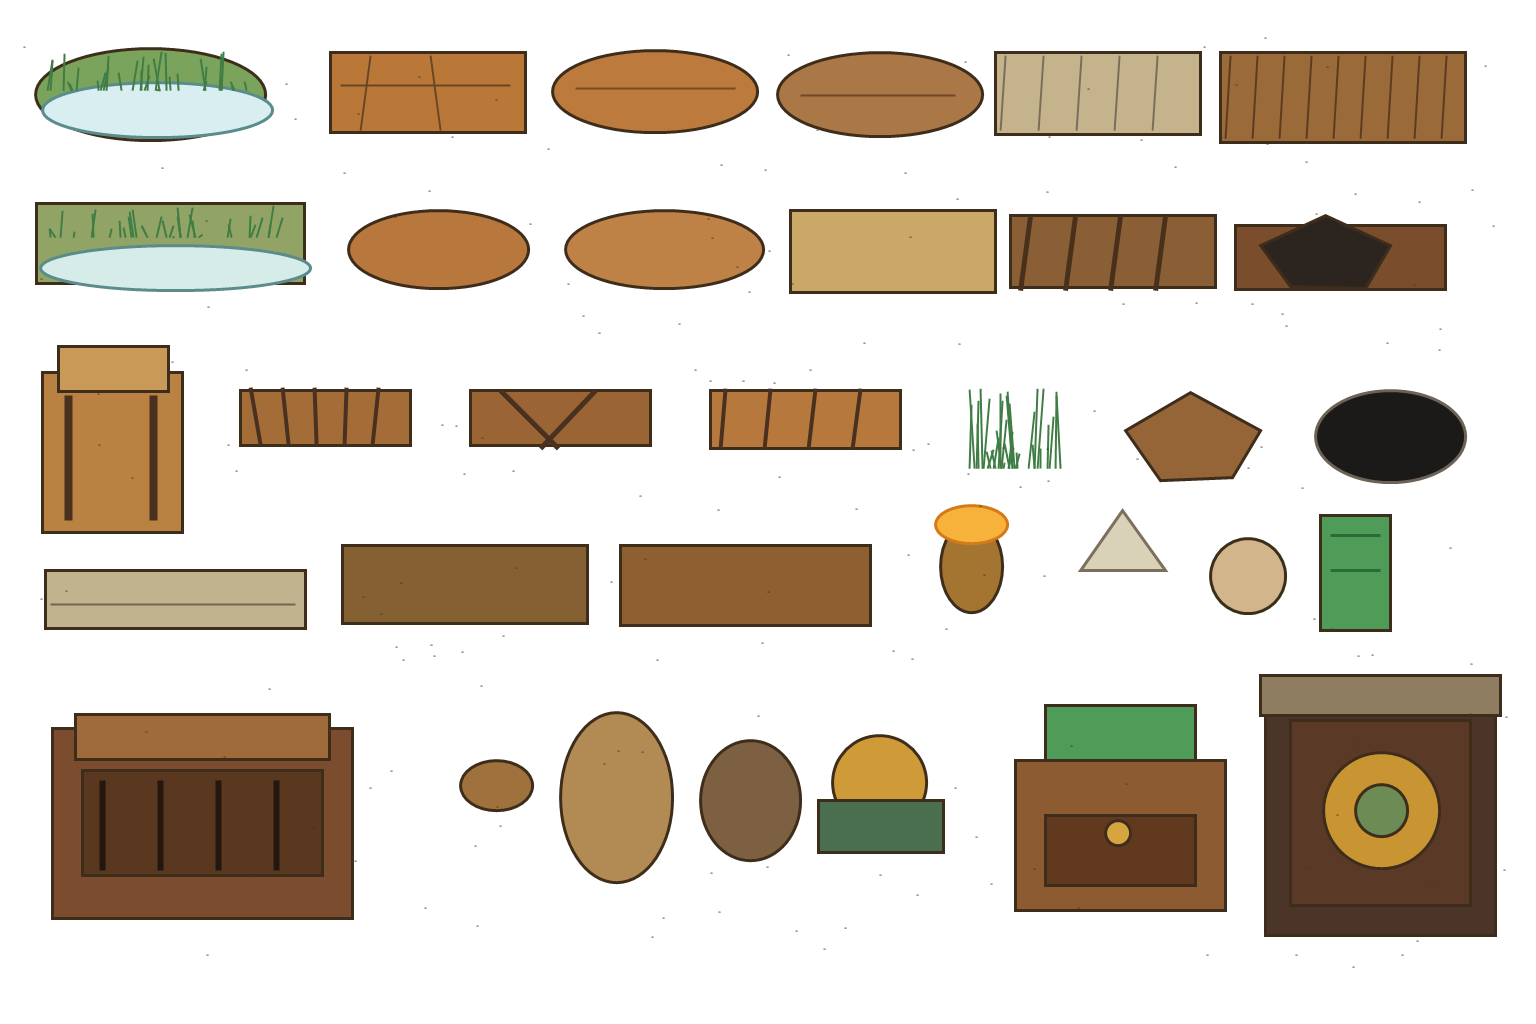
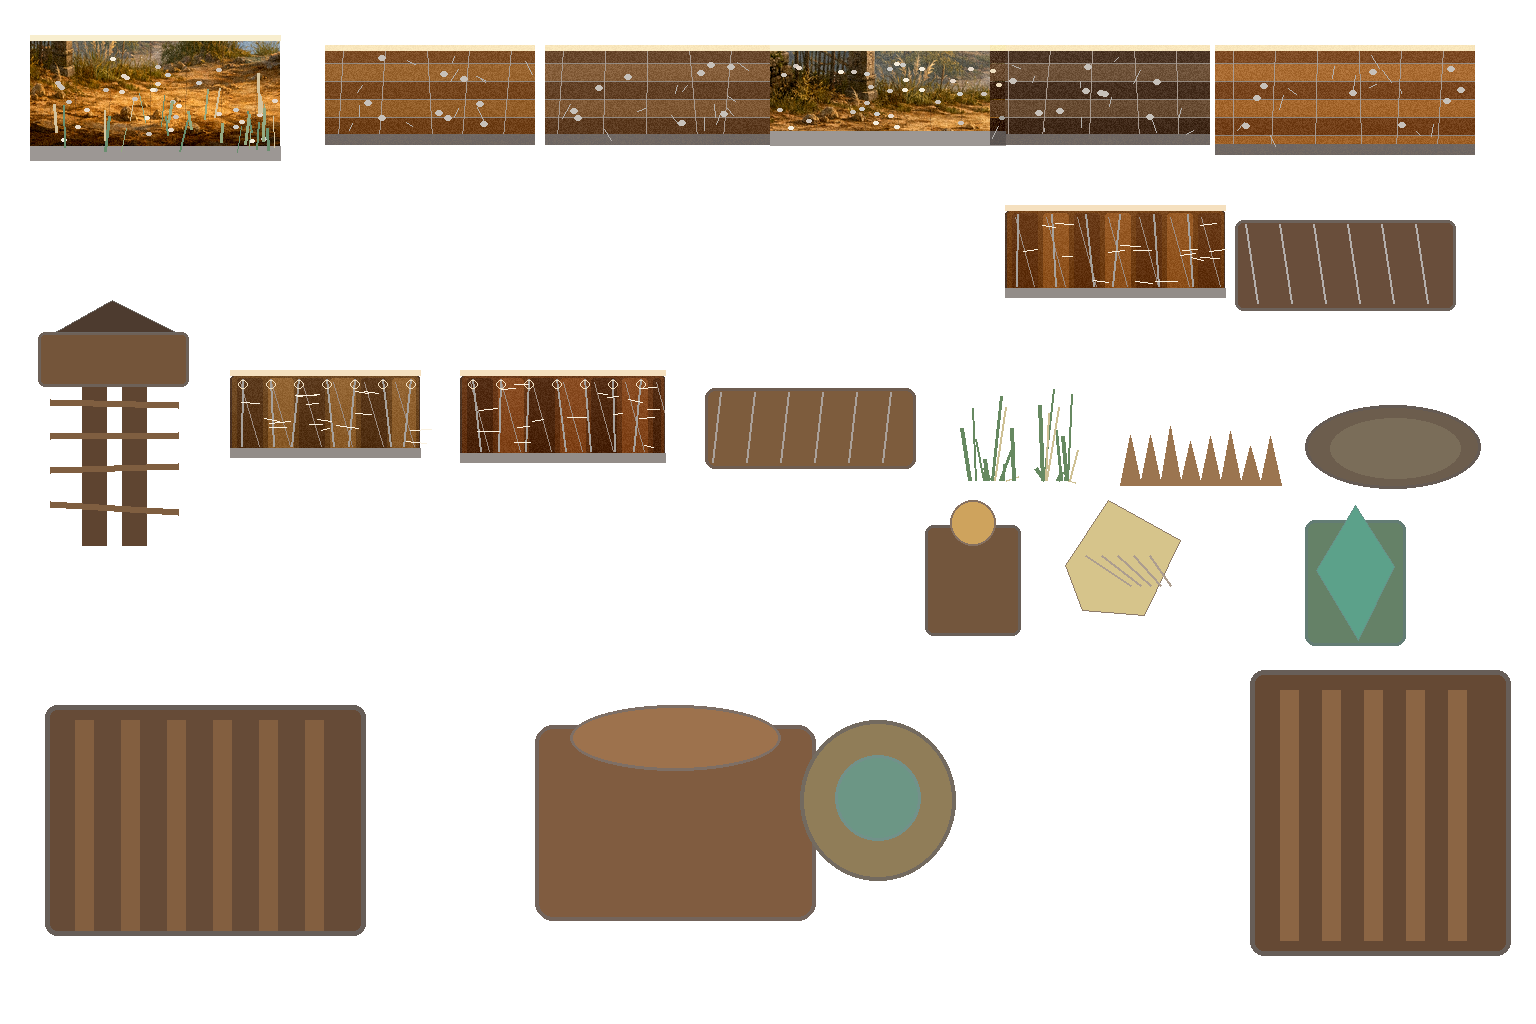
Polish China Journey visuals

diff --git a/src/components/ExpeditionJourney.jsx b/src/components/ExpeditionJourney.jsx
@@ -506,7 +506,7 @@ const SECTION_MUSIC_CUES = {
 };
 
 const JOURNEY_POLISH_VERSION = 'journey-polish-2026-05-11';
-const CHINA_BACKGROUND_POLISH_VERSION = 'china-background-seam-reduction-2026-05-15';
+const CHINA_BACKGROUND_POLISH_VERSION = 'china-background-composited-art-2026-05-15';
 const EGYPT_AMBIENT_LIFE_VERSION = 'egypt-ambient-life-start-route-2026-05-15';
 const COLLECTIBLE_SCALE_TUNING_VERSION = 'journey-collectible-scale-tuning-2026-05-14';
 const RELIC_SHARD_SCALE = 0.74;
@@ -2997,6 +2997,47 @@ export default function ExpeditionJourney({
     const assets = getSectionBackgroundAssets(desertBackgroundAssetsRef.current, 'china-river-valley');
     if (!assets?.ready) return false;
     const layerOptions = { canvasWidth: CANVAS_WIDTH, cameraX };
+    if (assets.atlas?.runtimeMode === 'single-composited-backdrop') {
+      const backdropDrawn = drawDesertBackgroundLayer(
+        ctx,
+        assets,
+        'skyLayer',
+        { y: 0, height: CANVAS_HEIGHT },
+        { ...layerOptions, parallax: 0, alpha: 1 },
+      );
+      if (!backdropDrawn) return false;
+
+      ctx.save();
+      const depthWash = ctx.createLinearGradient(0, 0, 0, CANVAS_HEIGHT);
+      depthWash.addColorStop(0, 'rgba(226, 238, 232, 0.03)');
+      depthWash.addColorStop(0.45, 'rgba(218, 210, 181, 0.05)');
+      depthWash.addColorStop(0.74, 'rgba(122, 94, 57, 0.08)');
+      depthWash.addColorStop(1, 'rgba(40, 30, 20, 0.16)');
+      ctx.fillStyle = depthWash;
+      ctx.fillRect(0, 0, CANVAS_WIDTH, CANVAS_HEIGHT);
+
+      const playableMist = ctx.createLinearGradient(0, 342, 0, 520);
+      playableMist.addColorStop(0, 'rgba(226, 224, 203, 0)');
+      playableMist.addColorStop(0.34, 'rgba(226, 224, 203, 0.1)');
+      playableMist.addColorStop(0.72, 'rgba(172, 145, 103, 0.08)');
+      playableMist.addColorStop(1, 'rgba(172, 145, 103, 0)');
+      ctx.fillStyle = playableMist;
+      ctx.fillRect(0, 338, CANVAS_WIDTH, 190);
+
+      ctx.strokeStyle = 'rgba(76, 57, 32, 0.1)';
+      ctx.lineWidth = 1.1;
+      [514, 548, 580].forEach((y, index) => {
+        ctx.beginPath();
+        ctx.moveTo(0, y);
+        for (let x = 0; x <= CANVAS_WIDTH; x += 78) {
+          ctx.lineTo(x, y + Math.sin((x + cameraX * 0.12 + index * 76) * 0.014) * 3);
+        }
+        ctx.stroke();
+      });
+      ctx.restore();
+
+      return true;
+    }
     const drawn = [
       drawDesertBackgroundLayer(ctx, assets, 'skyLayer', { y: 0, height: CANVAS_HEIGHT }, { ...layerOptions, parallax: 0.01, alpha: 0.98 }),
       drawDesertBackgroundLayer(ctx, assets, 'farMountains', { y: 184, height: 228 }, { ...layerOptions, parallax: 0.06, alpha: 0.42 }),
@@ -3130,6 +3171,18 @@ export default function ExpeditionJourney({
     if (backgroundPackId === 'china-river-valley') {
       const assets = getSectionBackgroundAssets(desertBackgroundAssetsRef.current, 'china-river-valley');
       if (!assets?.ready) return false;
+      if (assets.atlas?.runtimeMode === 'single-composited-backdrop') {
+        ctx.save();
+        const mist = ctx.createLinearGradient(0, 270, 0, 480);
+        mist.addColorStop(0, 'rgba(229, 232, 211, 0)');
+        mist.addColorStop(0.36, 'rgba(229, 232, 211, 0.09)');
+        mist.addColorStop(0.76, 'rgba(187, 171, 132, 0.07)');
+        mist.addColorStop(1, 'rgba(187, 171, 132, 0)');
+        ctx.fillStyle = mist;
+        ctx.fillRect(0, 270, CANVAS_WIDTH, 220);
+        ctx.restore();
+        return true;
+      }
       const mistDrawn = [
         drawDesertBackgroundLayer(
           ctx,

diff --git a/progress.md b/progress.md
@@ -1354,3 +1354,27 @@ Remaining notes:
 - Validation: `npm.cmd run lint` passed; `npm.cmd run build` passed with existing runtime-public-asset warnings only; `git diff --check` passed with LF-to-CRLF working-copy warnings only.
 - Browser notes: clean-save smoke opened Ancient Egypt Journey, simulated the first route movement, sampled start positions around 170, 330, 690, 900, 1185, and 1375 base units, confirmed collectibles/shards, mild hazards, ambient life, camera values, route gate state, and Scarab Queen intro still work. Headless browser reported audio autoplay warnings only; no gameplay/runtime exception was found.
 - Remaining risks/follow-up tasks: browser verification used deterministic movement/debug sampling rather than a full natural classroom playthrough; the section title card briefly overlays the start-route screenshot before fading, so a later UX pass could shorten the opening card if it still feels intrusive.
+
+2026-05-15 follow-up:
+- Upgraded the China Journey background, ground, and platform visuals from prototype-looking strip/block art to project-local PNG assets.
+- Used the image generation skill to create a high-quality Ancient China river valley backdrop with layered mountains, river, settlement, watchtowers, rammed-earth walls, reeds, and a natural lower playfield.
+- Replaced the old five-strip China background atlas with a single composited 16:9 backdrop in `public/assets/expedition/backgrounds/china-river-valley/china-river-valley-parallax-pack.png` and updated the atlas JSON to `runtimeMode: single-composited-backdrop`.
+- Updated the China-only Journey renderer so the composited backdrop is drawn once, avoiding the hard horizontal seams and glass-panel look shown in the screenshot.
+- Rebuilt `public/assets/expedition/environment/china-river-valley/china-river-valley-environment-pack.png` with richer riverbank ground, rammed-earth blocks, timber platforms, bamboo bridge pieces, hazards, gates, and archaeology marker art while preserving existing region keys.
+- Completed a final China terrain polish pass with worn edges, reeds, embedded stones, rammed-earth texture, plank grain, and bamboo/timber detail so the lower route and platforms no longer read as flat prototype blocks.
+- Kept gameplay systems unchanged: no route logic, enemy logic, boss logic, Stage Select, Base Camp, Excavation, Museum, Lab, Report, save/load, inventory, or Egypt asset changes were intentionally made in this pass.
+- Validation: `npm.cmd run lint` passed; `npm.cmd run build` passed with the existing Vite runtime-public-asset warnings only; `git diff --check` passed with LF-to-CRLF working-copy warnings only.
+- Browser/asset notes: local dev server returned the new China background PNG and environment PNG with HTTP 200. Full browser visual automation could not be rerun in this turn because CDP was not reachable and the bundled Playwright import is missing `playwright-core`.
+
+2026-05-15 update:
+- Added Base Camp Shop to the existing Lost Site Expedition Base Camp screen as an expedition outfitting station, without changing Stage Select, Museum, Lab, Report, boss, save/load, or excavation systems.
+- Integrated existing relic shards as the shop currency. Journey shards remain collected in the Journey state, and the Base Camp progression layer stores a persistent shard bank for purchases.
+- Added permanent progression support in `src/components/expedition/baseCampShop.js` with first stock for Field Gear, Expedition Upgrades, Cosmetics, and Journal Unlock placeholders.
+- Added first permanent archaeology upgrades: Reinforced Boots, Climbing Gloves, and Reinforced Backpack. Effects are intentionally small: higher jump, slightly better air control, reduced knockback baseline support, and a higher stamina cap where purchased.
+- Added cosmetic unlock framework for Expedition Hat, Curator Journal Cover, and Bronze Backpack. Visual swapping is not wired yet; cosmetics are tracked as persistent unlocks for a later player-visual pass.
+- Added purchase feedback with shard deduction, owned/locked/not-enough-shards states, and an Upgrade Purchased confirmation/glow.
+- Added focused Node tests for shop purchase rules, duplicate purchase protection, cosmetic purchases, and upgrade stat effects.
+- Progression persistence uses `localStorage` key `archaeology-dig-app:lost-site-expedition:base-camp-progression:v1`, separate from the existing classroom file save/load systems so it does not corrupt current archaeology/Bureau saves.
+- Validation: `node --test src\components\expedition\baseCampShop.test.js` passed; `npm.cmd run lint` passed; `npm.cmd run build` passed with existing runtime-public-asset warnings only; `git diff --check` passed with LF-to-CRLF working-copy warnings only.
+- Browser notes: Playwright smoke test launched Ancient Egypt, confirmed Journey shard collection through `render_game_to_text`, opened Base Camp through the existing dev jump hook, purchased Reinforced Boots from a seeded shard bank, confirmed shards dropped from 20 to 5, reloaded, and confirmed the next Journey run included `permanentUpgrades: ["reinforced-boots"]` with a jump multiplier above 1 and no console/page errors.
+- Remaining risks/follow-up tasks: cosmetic visual swapping is intentionally deferred; Rope Launcher and Survey Goggles are shop placeholders only until hidden-route and hidden-clue content exists; a full natural classroom playthrough should still check long-route balance after several upgrades are owned.
